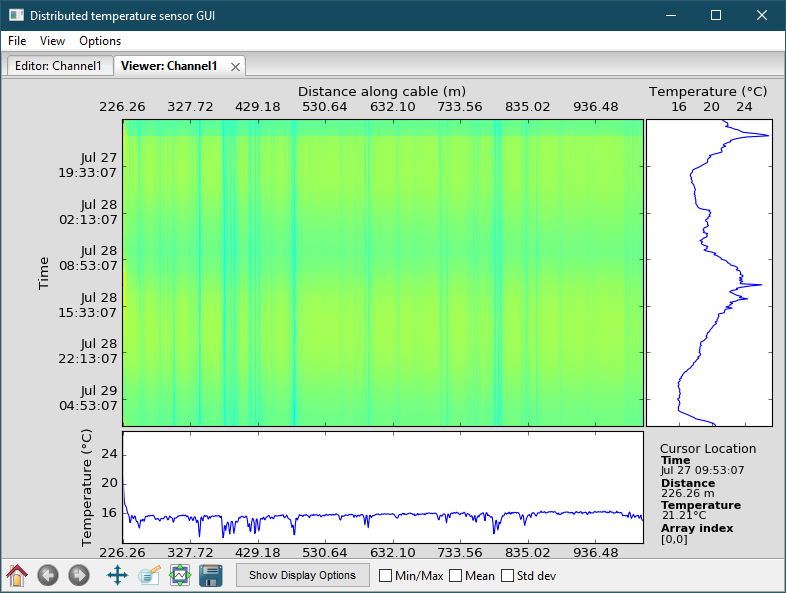
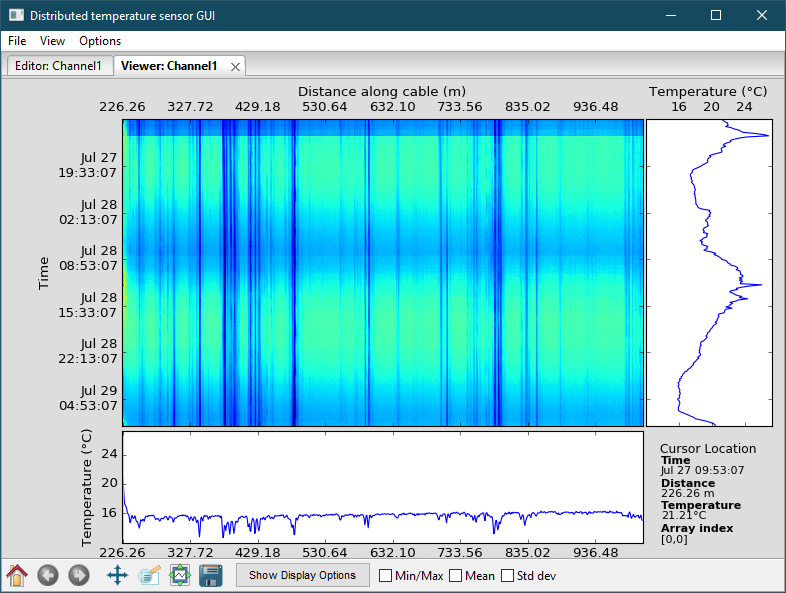
add narrative to tutorial

diff --git a/docs/TUTORIAL.md b/docs/TUTORIAL.md
@@ -2,50 +2,175 @@
 
 ## 1. Start DTSGUI
 
+Start DTSGUI by double clicking on the executable. The program may take take a
+bit to load.
+
 ## 2. Load the data for channel 1
+
+The first dialog you will see is shown below. Choose the Sensornet item, as
+shown. A system dialog prompting you for a folder will appear. From the top
+level directory of this repository, the Sensornet data you will load is located
+in `test\data\quashnet\channel1`. Navigate to the directory in the dialog and
+open the folder.
 
 ![Choose a data set](images/choose-a-data-set.png)
 
+A dialog prompting you for a data set name will appear (shown below). Name the
+data set Channel1, as shown. Click the OK button.
+
 ![Data set name](images/data-set-name.png)
+
+The program will load the data in the directory. Once the process is complete,
+the main DTSGUI window will appear, with an editor tab for Channel1
+(shown below). This tab gives you access to all of the editing and viewing
+features for Channel1.
 
 ![Editor: Channel1](images/dts-gui-editor-channel-1.png)
 
 ## 3. View the channel data
 
+The first thing you'll do after loading the data is view the temperature time
+series from channel 1. Click on View Channel Data in the channel 1 editor
+within the main DTSGUI window. A viewer tab for the channel 1 data will appear
+in the main window as shown below.
+
 ![Viewer: Channel1](images/viewer-channel-1.png)
+
+The viewer automatically sets the bounds of the colormap based on the
+minimum and maximum temperatures in the time series. The portion of the cable
+that was in the ice bath is included in this time series. The temperatures
+in the ice bath affect the automatically selected bounds of the colormap. You
+could either adjust the lower bound of the colormap or trim the raw data of the
+time series to exclude the ice bath portion.
+
+Next you'll trim the raw data and remove the portion of the cable that was
+submerged in the ice bath from the time series.
 
 ## 4. Trim the raw data
 
+Click on the Trim Raw Data button within the editor tab for channel 1 (see
+below).
+
 ![Viewer: Trim Raw Data](images/editor-trim-raw-data.png)
+
+After clicking on the button, a tab called Trim Raw Data will appear. The
+main window will look similar to the figure below.
+
+Change the minimum distance range by selecting the Min text box. The value in
+the box will change from 0.0 m (distance) to 0 (an integer indicating the
+index of the distance array). To change the minimum distance in the range to
+the value shown in the figure below, type 223 (the index that corresponds to
+the distance of 226.2558 m in the distance array).
+
+Click the Trim Raw Data button. The Trim Raw Data tab will close and you will
+be returned to the editor tab.
 
 ![Trim Raw Data](images/trim-raw-data.png)
 
+Within the editor tab for channel 1, click the View Channel Data button again.
+The program will automatically update the limits of the colormap based on the
+trimmed data set (as shown below).
+
 ![Trimmed Data](images/viewer-trimmed.png)
 
-## 5. Set the colormap limits
+## 5. Show the colorbar
+
+To show the colorbar that corresponds to the colormap in the temperature data
+viewer, click the Show Display Options button at the bottom of the viewer tab.
+After clicking the button, display options will be shown.
 
 ![Show Display Options](images/show-display-options.png)
 
+Click the Colorbar box. After clicking the box, the main window will look like
+the below figure.
+
 ![Auto Colormap Limits](images/colormap-limits-auto.png)
+
+Within the display options, you can also set the colormap limits and hide or
+show the time and cable plots.
+
+Click the Hide Display Options button to hide the display options.
 
 ## 6. Import geospatial data
 
+In order to view the temperature data on a map, you must associate the cable
+coordinates to geospatial coordinates. You accomplish this by using a feature
+of DTSGUI to import geospatial data.
+
+To import geospatial data, click on the Import Geospatial Data button within
+the editor tab for channel 1. The button is highlighted below.
+
 ![Import Geospatial Data](images/import-geospatial-data.png)
 
+After clicking the button, a dialog prompting you for the location of the file
+containing cable reference data. From the top-level directory of this
+repository, the file is `test\data\quashnet\channel 1_X_Y_UTM.txt`. In the
+dialog, navigate to the file and open it. This will begin the import process.
+
+After the program reads the file, a tab named Import Geodata will appear in the
+main window. The tab will look similar to the tab shown in the figure below.
+
+The default coordinate system selected is latitude/longitude, but the
+geo-reference data in the file are in UTM coordinates. Specifically, the first
+column is easting and the second column is northing. Click the column headers
+in the Import Geodata tab and change the first column to Easting and the
+second to Northing. Set the UTM zone to 15 in the Set UTM Zone text box below
+the Data Preview section of the tab. The import tab should look like the tab
+in the figure below.
+
+Click the OK button. The Import Geodata tab will close.
+
 ![Import Geodata](images/import-geodata.png)
+
+The program will finish importing the geospatial data and associate the cable
+distances with geospatial coordinates. When this is complete, the map viewer
+buttons in the channel 1 editor tab will be enabled. See the below figure.
 
 ![Editor: Channel1 - Maps viewer](images/editor-maps-viewer.png)
 
 ## 7. View the channel data on Google Maps
 
+To view the georeferenced temperature data, click the Google Maps Viewer
+button in the channel 1 editor tab. A new tab named Google Maps: Channel 1 will
+appear in the main window (as shown in the figure below).
+
 ![Google Maps: Channel1](images/google-maps-channel-1.png)
+
+There are options to view the "instantaneous," maximum, and minimum
+temperatures at a point through time, or the standard deviation of the
+temperature through time. To change the time of the instantaneous temperatures,
+open a viewer tab and, within the colormap, click on the time you want to see.
+Go back to the map viewer tab and you'll see the instantaneous temperature
+for that time.
 
 ## 8. Export the channel data as a CSV
 
+To export a subset (either a complete channel data time series or a user-
+created subset), click on the Subset as CSV button in the channel 1 editor tab,
+shown in the below figure. A dialog prompting you for a location to save the
+CSV file will appear. After you choose a file location, the program will create
+a CSV file containing the temperature time series with geospatial coordinates
+(if the data have been georeferenced).
+
+You can also export a CSV file containing georeferenced temperature statistics
+through time using the Subset stats as CSV button.
+
 ![Export Subset](images/export-subset.png)
 
-## 9. Import channel 2
+## 9. Import channel 2 data
+
+An instance of DTSGUI can contain data for multiple channels. The import
+process is similar to the import process you experienced when you first started
+the program.
+
+To import channel 2 of the example Sensornet data set, click on the Import data
+item under the File menu (see below). In the dialog that appears, navigate to
+the directory containing the channel 2 data. The channel 2 data is in the
+`channel2` directory on the same level as the channel 1 data. Name this data
+set Channel2.
 
 ![Import data](images/dts-gui-menu-import.png)
+
+After importing the channel 2 data, an editor tab for channel 2 will appear.
 
 ![Editor: Channel2](images/dts-gui-editor-channel-2.png)
